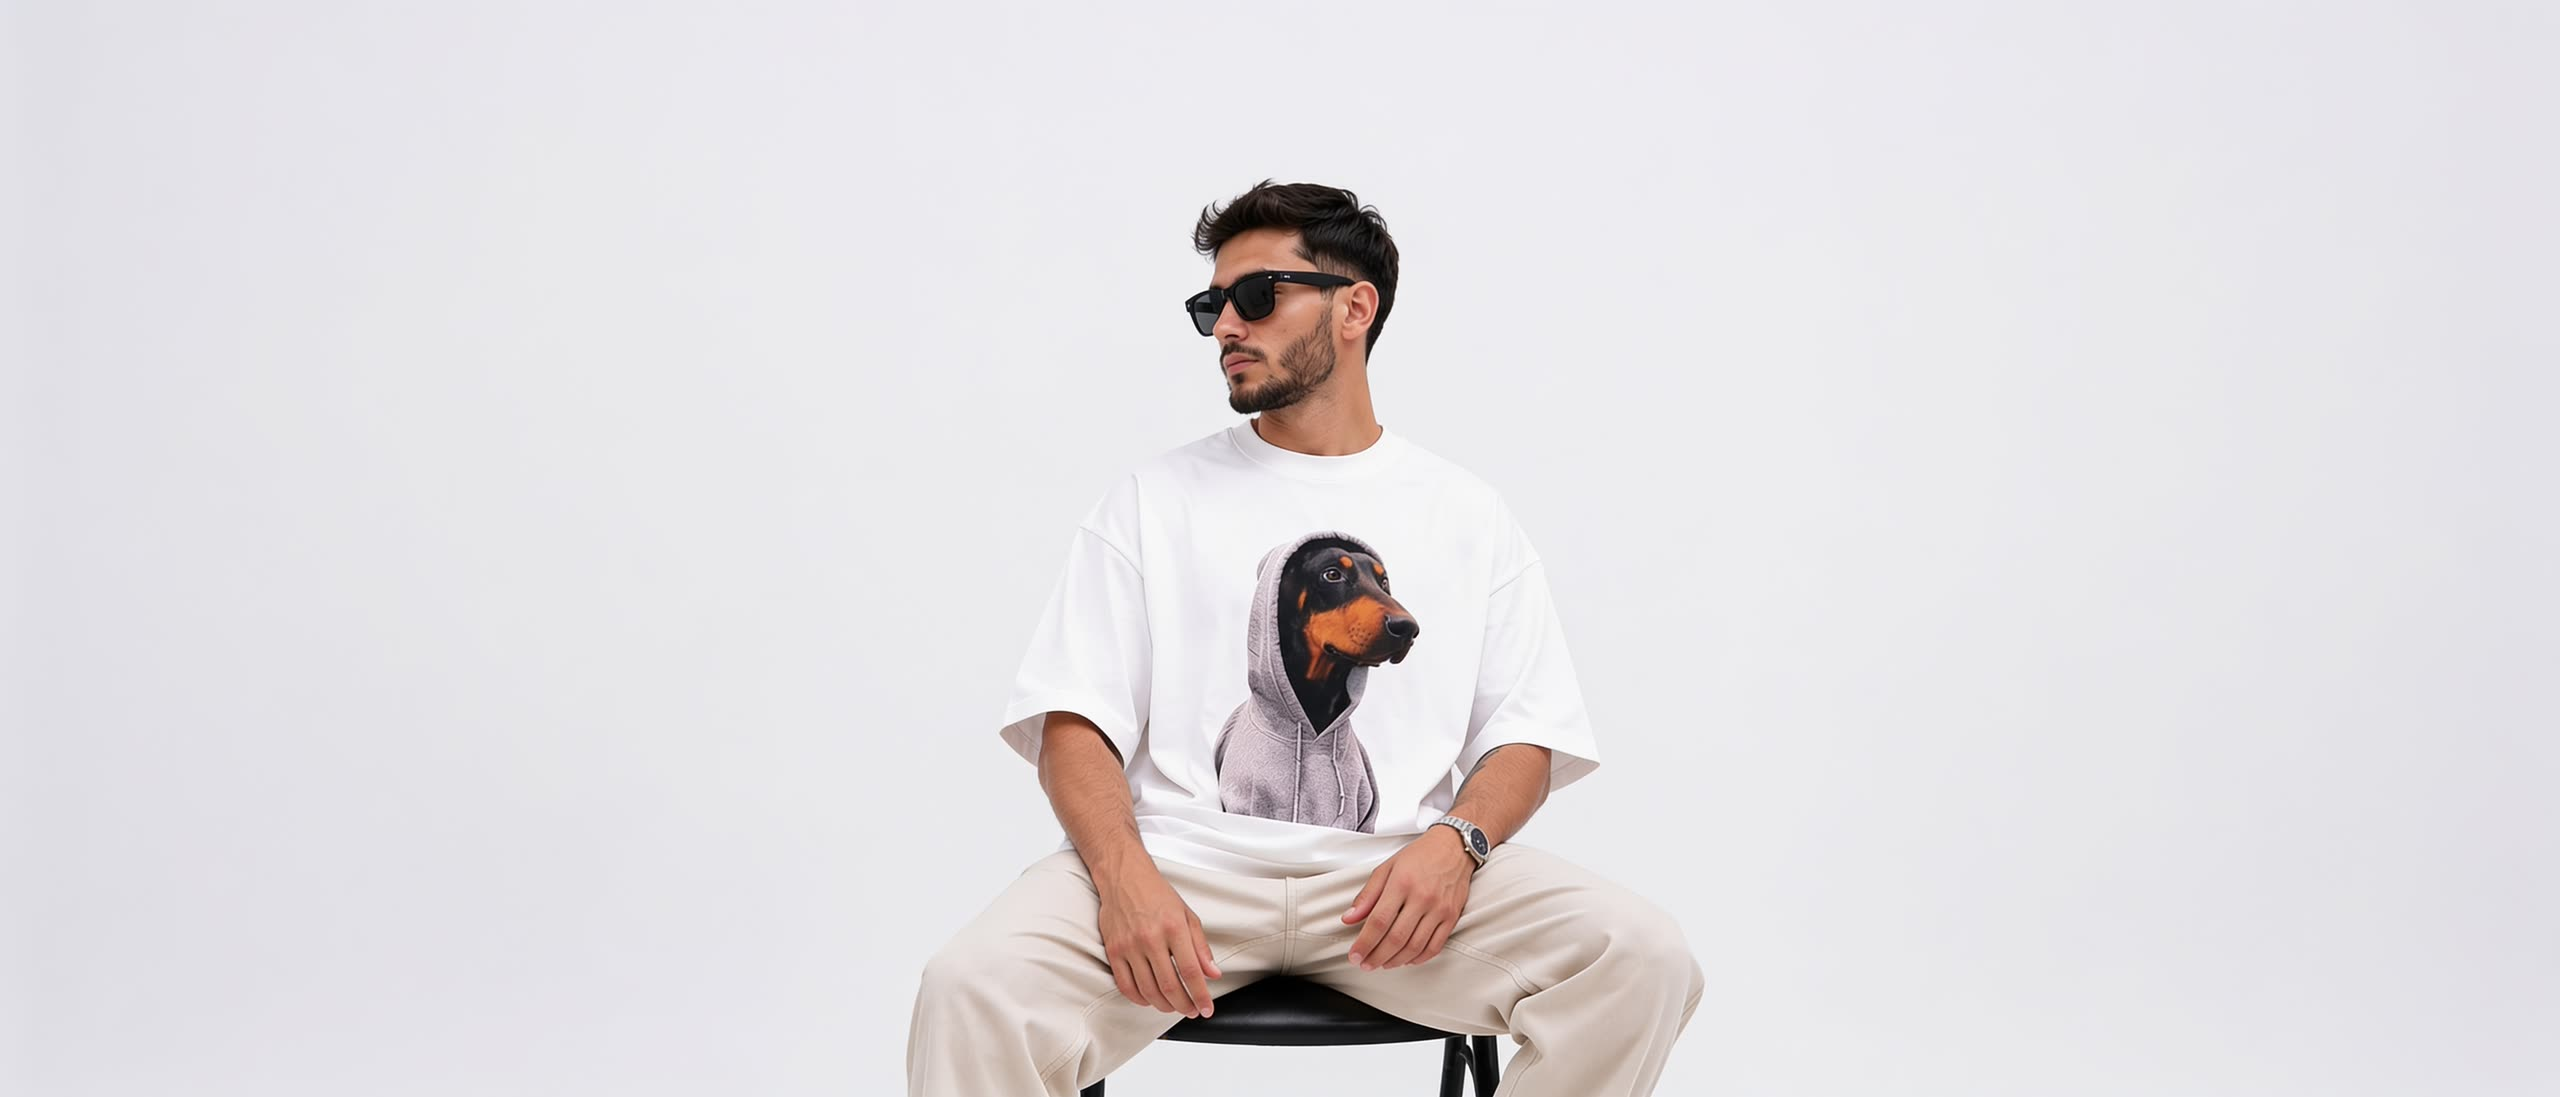
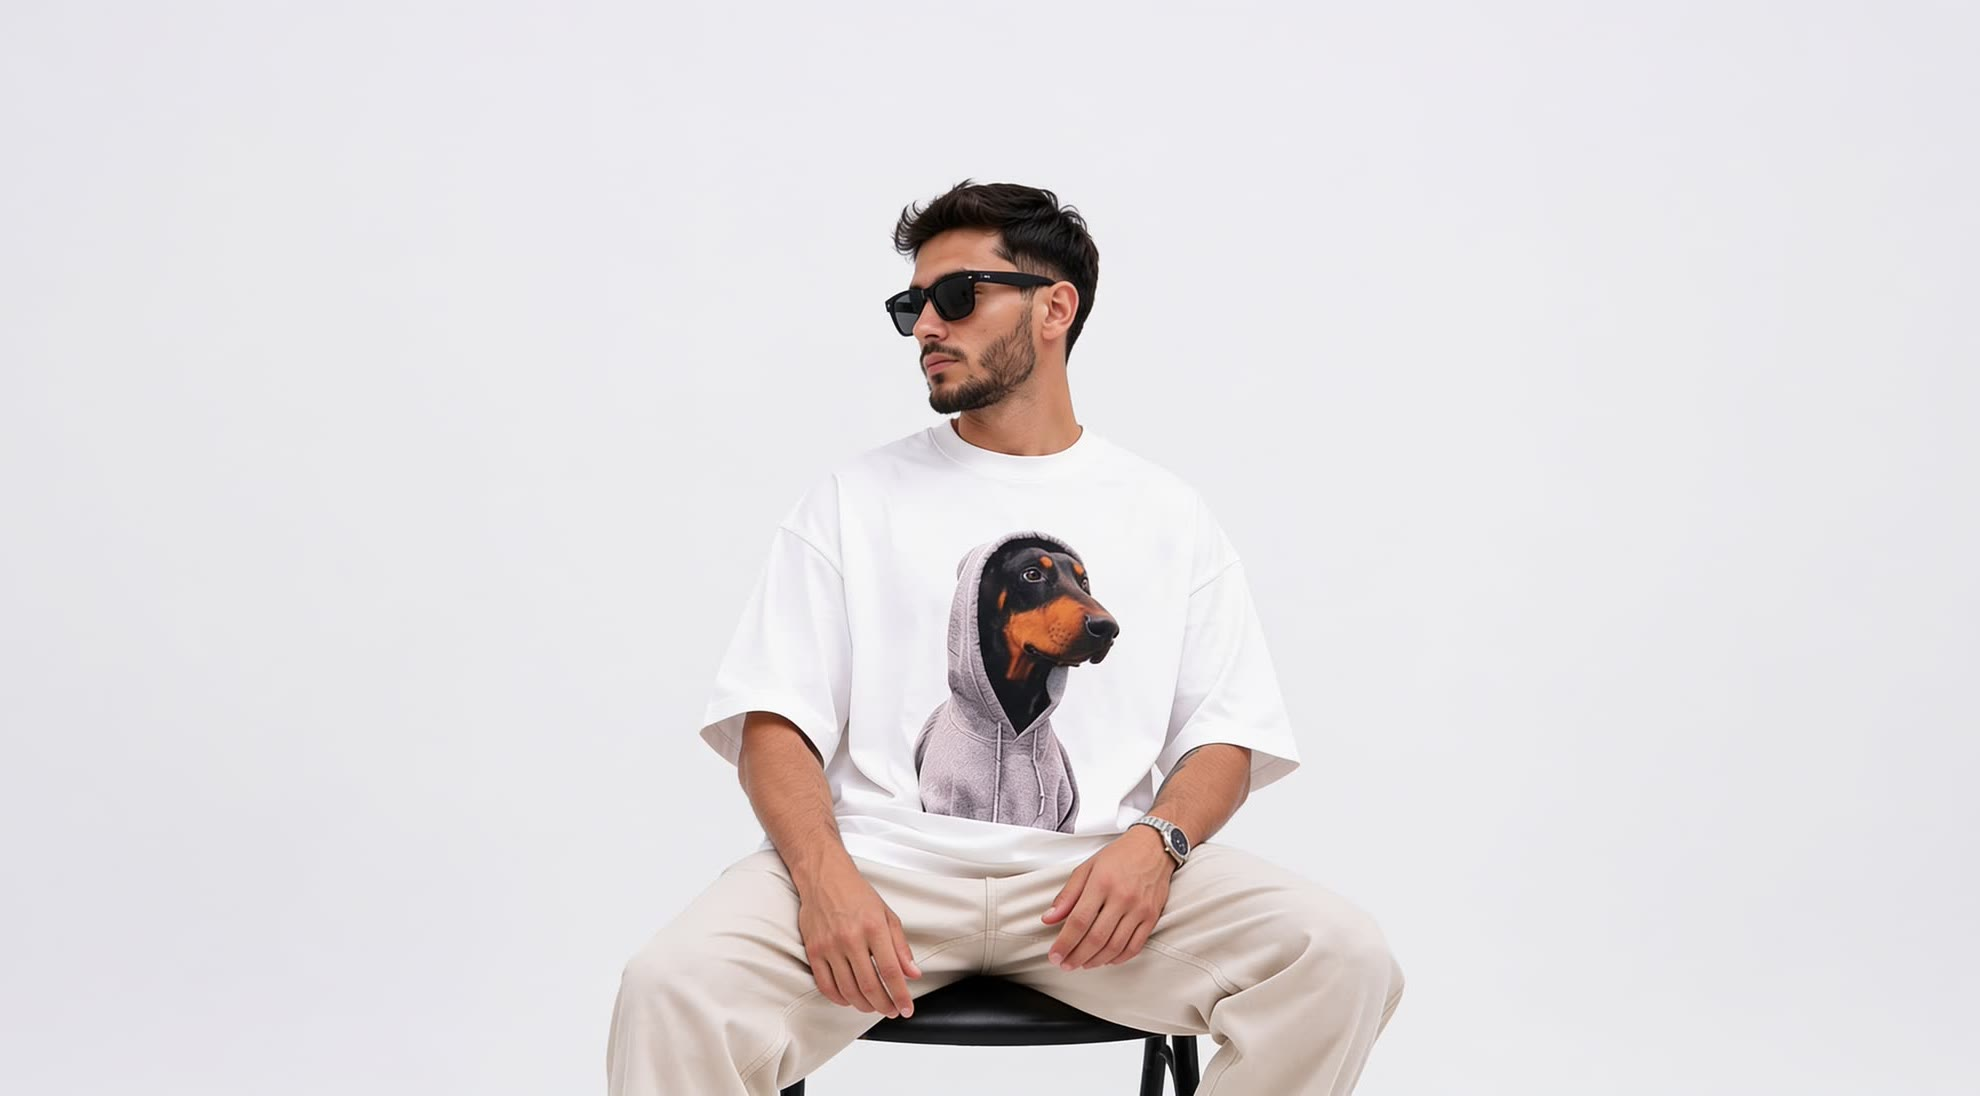
Tighten the hero crop so the model fills the frame
The source was a wide studio plate with the subject at roughly a third of
the frame width, so a full-bleed hero mostly showed empty backdrop. Cropped
580px of dead space off the sides and held object-position above centre, so
the vertical trim on wide viewports sheds floor rather than the model's head.

Changed region(s): [[0.3081, 0.4964, 0.7086, 1.0], [0.4313, 0.1551, 0.5545, 0.4343]]

diff --git a/src/components/home/Hero.tsx b/src/components/home/Hero.tsx
@@ -35,7 +35,9 @@ export default function Hero({
           fetchPriority="high"
           sizes="100vw"
           /* Keep the campaign subject centred across desktop and mobile crops. */
-          className="object-cover object-center"
+          /* Wide viewports trim this vertically. Holding the crop above centre
+             keeps the model's head in frame and sheds empty floor instead. */
+          className="object-cover object-[center_25%]"
         />
 
         {/*
